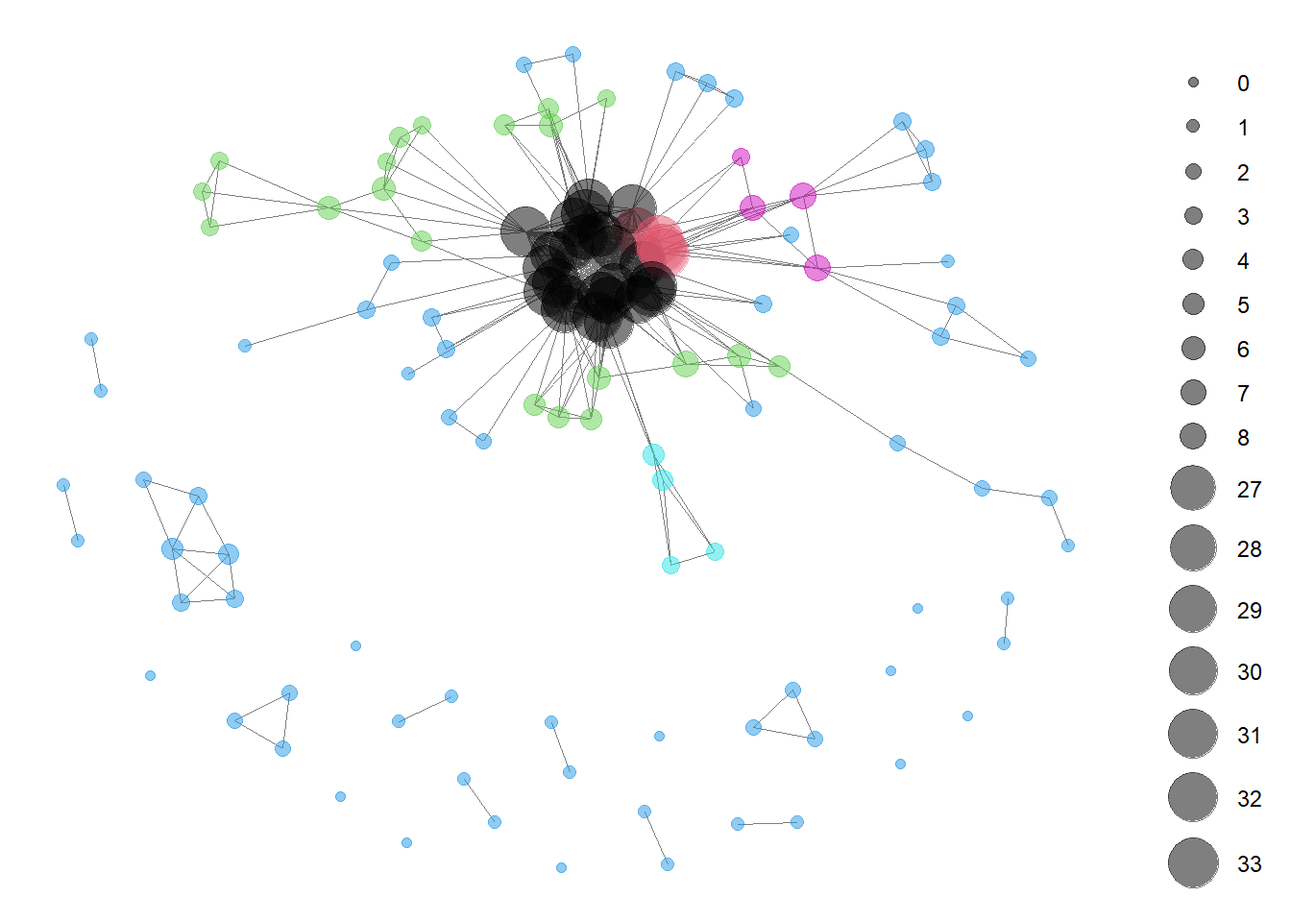
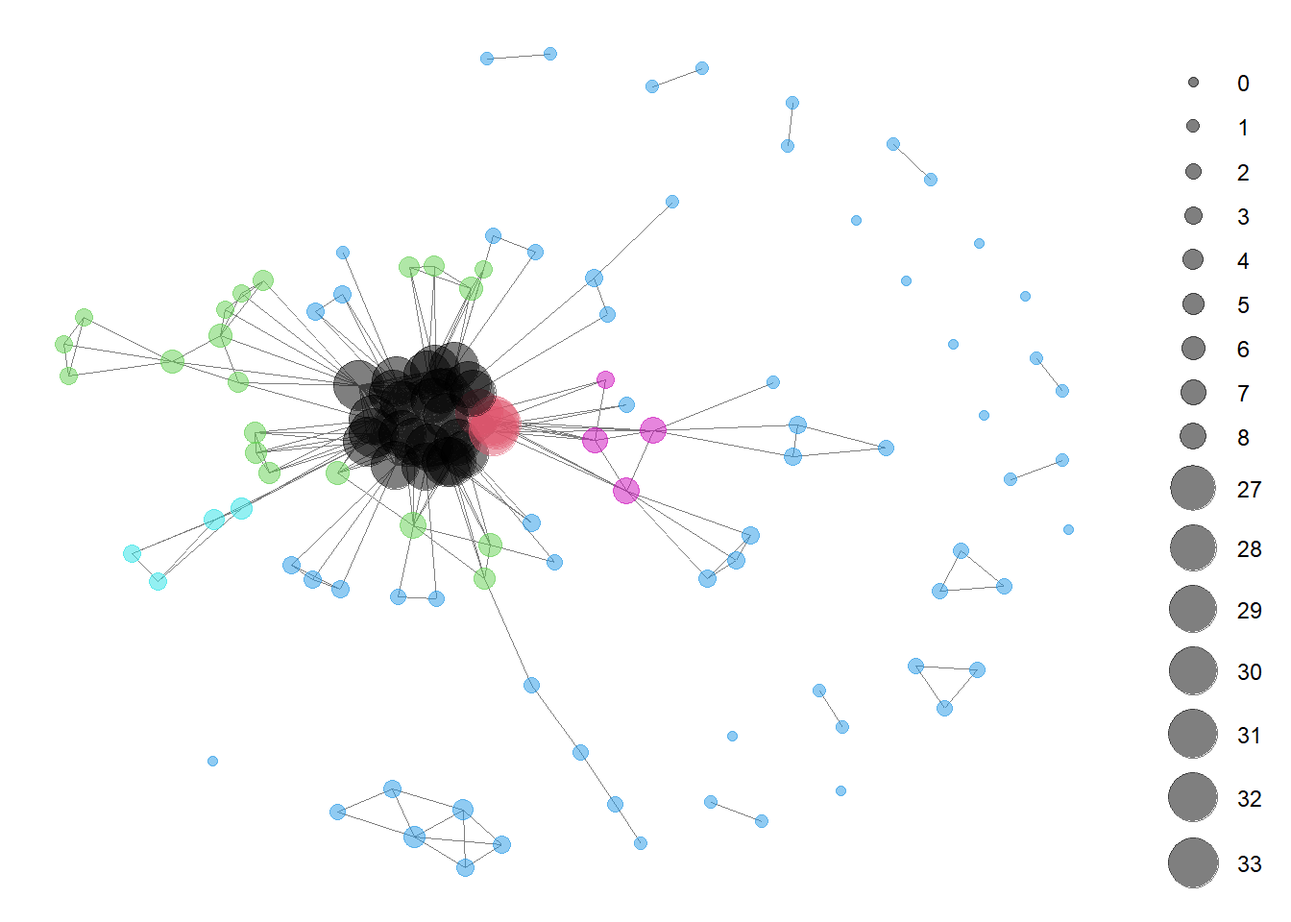
post 5

diff --git a/docs/posts/Post_Five/post_5.html b/docs/posts/Post_Five/post_5.html
@@ -7,7 +7,7 @@
 <meta name="viewport" content="width=device-width, initial-scale=1.0, user-scalable=yes">
 
 <meta name="author" content="Sue-Ellen Duffy">
-<meta name="dcterms.date" content="2024-04-25">
+<meta name="dcterms.date" content="2024-04-26">
 
 <title>Social_Networks_Blog_Space - Network Block Modeling - Geographical Comparisson</title>
 <style>
@@ -164,7 +164,7 @@ pre > code.sourceCode > span > a:first-child::before { text-decoration: underlin
       <div>
       <div class="quarto-title-meta-heading">Published</div>
       <div class="quarto-title-meta-contents">
-        <p class="date">April 25, 2024</p>
+        <p class="date">April 26, 2024</p>
       </div>
     </div>
     
@@ -317,21 +317,188 @@ pre > code.sourceCode > span > a:first-child::before { text-decoration: underlin
 <div class="cell">
 <div class="sourceCode cell-code" id="cb18"><pre class="sourceCode r code-with-copy"><code class="sourceCode r"><span id="cb18-1"><a href="#cb18-1" aria-hidden="true" tabindex="-1"></a><span class="co">#assign block membership to vertex attribute</span></span>
 <span id="cb18-2"><a href="#cb18-2" aria-hidden="true" tabindex="-1"></a>provider.stat<span class="sc">%v%</span><span class="st">"role"</span><span class="ot">&lt;-</span>prov_blk_mod<span class="sc">$</span>block.membership[<span class="fu">match</span>(provider.stat<span class="sc">%v%</span><span class="st">"vertex.names"</span>,prov_blk_mod<span class="sc">$</span>plabels)]</span>
-<span id="cb18-3"><a href="#cb18-3" aria-hidden="true" tabindex="-1"></a><span class="co">#plot network using "role" to color nodes</span></span>
-<span id="cb18-4"><a href="#cb18-4" aria-hidden="true" tabindex="-1"></a>GGally<span class="sc">::</span><span class="fu">ggnet2</span>(provider.stat,</span>
-<span id="cb18-5"><a href="#cb18-5" aria-hidden="true" tabindex="-1"></a>               <span class="at">node.color=</span><span class="st">"role"</span>, </span>
-<span id="cb18-6"><a href="#cb18-6" aria-hidden="true" tabindex="-1"></a>               <span class="at">node.size=</span>sna<span class="sc">::</span><span class="fu">degree</span>(provider.stat, <span class="at">gmode=</span><span class="st">"graph"</span>),</span>
-<span id="cb18-7"><a href="#cb18-7" aria-hidden="true" tabindex="-1"></a>               <span class="at">node.alpha =</span> .<span class="dv">5</span>)  <span class="sc">+</span> <span class="fu">ggtitle</span>(<span class="st">"Provider 6 Block Model Network"</span>)</span></code><button title="Copy to Clipboard" class="code-copy-button"><i class="bi"></i></button></pre></div>
+<span id="cb18-3"><a href="#cb18-3" aria-hidden="true" tabindex="-1"></a></span>
+<span id="cb18-4"><a href="#cb18-4" aria-hidden="true" tabindex="-1"></a><span class="co">#plot network using "role" to color nodes</span></span>
+<span id="cb18-5"><a href="#cb18-5" aria-hidden="true" tabindex="-1"></a>GGally<span class="sc">::</span><span class="fu">ggnet2</span>(provider.stat,</span>
+<span id="cb18-6"><a href="#cb18-6" aria-hidden="true" tabindex="-1"></a>               <span class="at">node.color=</span><span class="st">"role"</span>, </span>
+<span id="cb18-7"><a href="#cb18-7" aria-hidden="true" tabindex="-1"></a>               <span class="at">node.size=</span>sna<span class="sc">::</span><span class="fu">degree</span>(provider.stat, <span class="at">gmode=</span><span class="st">"graph"</span>),</span>
+<span id="cb18-8"><a href="#cb18-8" aria-hidden="true" tabindex="-1"></a>               <span class="at">node.alpha =</span> .<span class="dv">5</span>) <span class="sc">+</span> <span class="fu">ggtitle</span>(<span class="st">"Provider 6 Block Model Network"</span>)</span></code><button title="Copy to Clipboard" class="code-copy-button"><i class="bi"></i></button></pre></div>
 <div class="cell-output-display">
 <p><img src="post_5_files/figure-html/unnamed-chunk-17-1.png" class="img-fluid" width="672"></p>
 </div>
 </div>
+</section>
+<section id="create-new-attribute-lists" class="level2">
+<h2 class="anchored" data-anchor-id="create-new-attribute-lists">Create New Attribute Lists</h2>
 <div class="cell">
 <div class="sourceCode cell-code" id="cb19"><pre class="sourceCode r code-with-copy"><code class="sourceCode r"><span id="cb19-1"><a href="#cb19-1" aria-hidden="true" tabindex="-1"></a>pat_attr<span class="sc">$</span>block <span class="ot">&lt;-</span> pat_blk_mod<span class="sc">$</span>block.membership</span>
 <span id="cb19-2"><a href="#cb19-2" aria-hidden="true" tabindex="-1"></a>pro_attr<span class="sc">$</span>block <span class="ot">&lt;-</span> prov_blk_mod<span class="sc">$</span>block.membership</span>
 <span id="cb19-3"><a href="#cb19-3" aria-hidden="true" tabindex="-1"></a>both_attr <span class="ot">&lt;-</span> <span class="fu">bind_rows</span>(pat_attr, pro_attr)</span>
-<span id="cb19-4"><a href="#cb19-4" aria-hidden="true" tabindex="-1"></a>attribute_list <span class="ot">&lt;-</span> <span class="fu">do.call</span>(list, both_attr)</span></code><button title="Copy to Clipboard" class="code-copy-button"><i class="bi"></i></button></pre></div>
+<span id="cb19-4"><a href="#cb19-4" aria-hidden="true" tabindex="-1"></a></span>
+<span id="cb19-5"><a href="#cb19-5" aria-hidden="true" tabindex="-1"></a>pat_attr_list <span class="ot">&lt;-</span> <span class="fu">do.call</span>(list, pat_attr)</span>
+<span id="cb19-6"><a href="#cb19-6" aria-hidden="true" tabindex="-1"></a>pro_attr_list <span class="ot">&lt;-</span> <span class="fu">do.call</span>(list, pro_attr)</span>
+<span id="cb19-7"><a href="#cb19-7" aria-hidden="true" tabindex="-1"></a>attribute_list <span class="ot">&lt;-</span> <span class="fu">do.call</span>(list, both_attr)</span></code><button title="Copy to Clipboard" class="code-copy-button"><i class="bi"></i></button></pre></div>
 </div>
+<div class="cell">
+<div class="sourceCode cell-code" id="cb20"><pre class="sourceCode r code-with-copy"><code class="sourceCode r"><span id="cb20-1"><a href="#cb20-1" aria-hidden="true" tabindex="-1"></a>provider.st <span class="ot">&lt;-</span> <span class="fu">network</span>(provider_matrix,</span>
+<span id="cb20-2"><a href="#cb20-2" aria-hidden="true" tabindex="-1"></a>                       <span class="at">directed =</span> <span class="cn">FALSE</span>,</span>
+<span id="cb20-3"><a href="#cb20-3" aria-hidden="true" tabindex="-1"></a>                       <span class="at">matrix.type =</span> <span class="st">"adjacency"</span>,</span>
+<span id="cb20-4"><a href="#cb20-4" aria-hidden="true" tabindex="-1"></a>                       <span class="at">vertex.attr =</span> pro_attr_list)</span>
+<span id="cb20-5"><a href="#cb20-5" aria-hidden="true" tabindex="-1"></a>provider.st</span></code><button title="Copy to Clipboard" class="code-copy-button"><i class="bi"></i></button></pre></div>
+<div class="cell-output cell-output-stdout">
+<pre><code> Network attributes:
+  vertices = 253 
+  directed = FALSE 
+  hyper = FALSE 
+  loops = FALSE 
+  multiple = FALSE 
+  bipartite = FALSE 
+  total edges= 554 
+    missing edges= 0 
+    non-missing edges= 554 
+
+ Vertex attribute names: 
+    block CITY GENDER NAME type vertex.names 
+
+No edge attributes</code></pre>
+</div>
+</div>
+<div class="cell">
+<div class="sourceCode cell-code" id="cb22"><pre class="sourceCode r code-with-copy"><code class="sourceCode r"><span id="cb22-1"><a href="#cb22-1" aria-hidden="true" tabindex="-1"></a>provider_graph <span class="ot">&lt;-</span> <span class="fu">graph_from_biadjacency_matrix</span>(provider.st)</span></code><button title="Copy to Clipboard" class="code-copy-button"><i class="bi"></i></button></pre></div>
+</div>
+<div class="cell">
+<div class="sourceCode cell-code" id="cb23"><pre class="sourceCode r code-with-copy"><code class="sourceCode r"><span id="cb23-1"><a href="#cb23-1" aria-hidden="true" tabindex="-1"></a><span class="co">#assign colors</span></span>
+<span id="cb23-2"><a href="#cb23-2" aria-hidden="true" tabindex="-1"></a><span class="co">#colors &lt;-  c("yellow", "blue", "green", "orange", "red", "purple")</span></span>
+<span id="cb23-3"><a href="#cb23-3" aria-hidden="true" tabindex="-1"></a><span class="co">#vertex_colors &lt;- colors[pro_attr_list$block]</span></span>
+<span id="cb23-4"><a href="#cb23-4" aria-hidden="true" tabindex="-1"></a>vertex_colors <span class="ot">&lt;-</span> <span class="fu">ifelse</span>(pro_attr_list<span class="sc">$</span>CITY <span class="sc">==</span> <span class="st">"BOSTON"</span>, <span class="st">"red"</span>, <span class="st">"white"</span>)</span>
+<span id="cb23-5"><a href="#cb23-5" aria-hidden="true" tabindex="-1"></a></span>
+<span id="cb23-6"><a href="#cb23-6" aria-hidden="true" tabindex="-1"></a>vertex_shape <span class="ot">&lt;-</span> <span class="fu">ifelse</span>(pro_attr_list<span class="sc">$</span>CITY <span class="sc">==</span> <span class="st">"BOSTON"</span>, <span class="st">"circle"</span>, <span class="st">"square"</span>)</span></code><button title="Copy to Clipboard" class="code-copy-button"><i class="bi"></i></button></pre></div>
+</div>
+<div class="cell">
+<div class="sourceCode cell-code" id="cb24"><pre class="sourceCode r code-with-copy"><code class="sourceCode r"><span id="cb24-1"><a href="#cb24-1" aria-hidden="true" tabindex="-1"></a><span class="fu">plot</span>(provider_graph, </span>
+<span id="cb24-2"><a href="#cb24-2" aria-hidden="true" tabindex="-1"></a>     <span class="at">layout =</span> layout.fruchterman.reingold, </span>
+<span id="cb24-3"><a href="#cb24-3" aria-hidden="true" tabindex="-1"></a>     <span class="at">vertex.label.dist =</span> <span class="dv">2</span>, </span>
+<span id="cb24-4"><a href="#cb24-4" aria-hidden="true" tabindex="-1"></a>     <span class="at">vertex.size =</span> <span class="dv">4</span>, </span>
+<span id="cb24-5"><a href="#cb24-5" aria-hidden="true" tabindex="-1"></a>     <span class="at">vertex.color =</span> vertex_colors,</span>
+<span id="cb24-6"><a href="#cb24-6" aria-hidden="true" tabindex="-1"></a>     <span class="at">vertex.shape =</span> vertex_shape,</span>
+<span id="cb24-7"><a href="#cb24-7" aria-hidden="true" tabindex="-1"></a>     <span class="at">edge.label =</span> <span class="cn">NA</span>,</span>
+<span id="cb24-8"><a href="#cb24-8" aria-hidden="true" tabindex="-1"></a>     <span class="at">vertex.label =</span> <span class="cn">NA</span>,</span>
+<span id="cb24-9"><a href="#cb24-9" aria-hidden="true" tabindex="-1"></a>     <span class="at">vertex.label.cex =</span> <span class="fl">0.2</span>, </span>
+<span id="cb24-10"><a href="#cb24-10" aria-hidden="true" tabindex="-1"></a>     <span class="at">main =</span> <span class="st">"SN Graph"</span>)</span></code><button title="Copy to Clipboard" class="code-copy-button"><i class="bi"></i></button></pre></div>
+<div class="cell-output-display">
+<p><img src="post_5_files/figure-html/unnamed-chunk-22-1.png" class="img-fluid" width="672"></p>
+</div>
+</div>
+<p>What other cities are on the provider list. Boston is not being properly represented, I have a feeling</p>
+<div class="cell">
+<div class="sourceCode cell-code" id="cb25"><pre class="sourceCode r code-with-copy"><code class="sourceCode r"><span id="cb25-1"><a href="#cb25-1" aria-hidden="true" tabindex="-1"></a><span class="fu">table</span>(pro_attr<span class="sc">$</span>CITY)</span></code><button title="Copy to Clipboard" class="code-copy-button"><i class="bi"></i></button></pre></div>
+<div class="cell-output cell-output-stdout">
+<pre><code>
+         ALLSTON          AMHERST          ANDOVER        ARLINGTON 
+               1                2                1                3 
+          AUBURN       AUBURNDALE       BELLINGHAM          BEVERLY 
+               1                2                1                2 
+          Boston           BOSTON      BRIDGEWATER         BRIGHTON 
+               1                5                2                2 
+        BROCKTON        BROOKLINE        CAMBRIDGE      CHARLESTOWN 
+               1                2                4                1 
+        CHARLTON          CHATHAM       CHELMSFORD          CHELSEA 
+               1                1                1                2 
+        CHICOPEE        DARTMOUTH           DEDHAM       DORCHESTER 
+               2                1                5                2 
+      E FALMOUTH        Fairhaven        FAIRHAVEN       FALL RIVER 
+               1                1                3                4 
+        FALMOUTH        Fitchburg       FOXBOROUGH       FRAMINGHAM 
+               3                1                1                2 
+      GEORGETOWN           GROTON          HANOVER     HARWICH PORT 
+               1                1                2                1 
+       HAVERHILL          HINGHAM        HOLLISTON          HOLYOKE 
+               3                2                1                2 
+       HOPKINTON          HYANNIS        HYDE PARK    Jamaica Plain 
+               2                2                1                1 
+   JAMAICA PLAIN         LAWRENCE       LEOMINSTER        LEXINGTON 
+               2                3                2                3 
+          LOWELL           LUDLOW             Lynn             LYNN 
+               3                1                1                1 
+          MALDEN      MARLBOROUGH         MATTAPAN          MEDFORD 
+               1                5                2                2 
+         MELROSE          METHUEN       MIDDLEBORO          MILFORD 
+               2                2                1                3 
+          MILTON           NATICK          NEEDHAM      NEW BEDFORD 
+               3                3                2                3 
+     NEWBURYPORT           NEWTON      NORTH ADAMS    NORTH ANDOVER 
+               1                5                1                1 
+ NORTH DARTMOUTH      NORTHAMPTON     NORTHBOROUGH          NORWELL 
+               1                1                1                3 
+         NORWOOD       OAK BLUFFS          PEABODY         PEMBROKE 
+               6                1                2                1 
+      PITTSFIELD         PLYMOUTH           QUINCY         RANDOLPH 
+               3                6                3                2 
+         RAYNHAM          READING         ROCHDALE       ROSLINDALE 
+               2                1                1                4 
+          ROWLEY          ROXBURY       S YARMOUTH            SALEM 
+               1                1                1                2 
+        SCITUATE           SHARON       SHREWSBURY       SOMERVILLE 
+               3                1                1                3 
+  SOUTH YARMOUTH     SOUTHBOROUGH      SPRINGFIELD         STONEHAM 
+               2                1                2                2 
+       STOUGHTON        TEWKSBURY            UPTON         UXBRIDGE 
+               2                2                1                1 
+         WALPOLE          WALTHAM          WAREHAM        WELLESLEY 
+               2                7                3                1 
+WEST BRIDGEWATER     West Roxbury     WEST ROXBURY      WESTBOROUGH 
+               3                1                1                4 
+        WESTFORD         WESTWOOD         WEYMOUTH        WILBRAHAM 
+               3                1                2                1 
+    WILLIAMSTOWN         WINTHROP           WOBURN        Worcester 
+               1                1                6                1 
+       WORCESTER 
+              17 </code></pre>
+</div>
+</div>
+<p>Should have cleaned that earlier, but here we go!</p>
+<div class="cell">
+<div class="sourceCode cell-code" id="cb27"><pre class="sourceCode r code-with-copy"><code class="sourceCode r"><span id="cb27-1"><a href="#cb27-1" aria-hidden="true" tabindex="-1"></a>Boston_Neighborhoods <span class="ot">&lt;-</span> <span class="fu">c</span>(</span>
+<span id="cb27-2"><a href="#cb27-2" aria-hidden="true" tabindex="-1"></a>  <span class="st">"ALLSTON"</span>,</span>
+<span id="cb27-3"><a href="#cb27-3" aria-hidden="true" tabindex="-1"></a>  <span class="st">"BRIGHTON"</span>,</span>
+<span id="cb27-4"><a href="#cb27-4" aria-hidden="true" tabindex="-1"></a>  <span class="st">"Boston"</span>,</span>
+<span id="cb27-5"><a href="#cb27-5" aria-hidden="true" tabindex="-1"></a>  <span class="st">"BOSTON"</span>,</span>
+<span id="cb27-6"><a href="#cb27-6" aria-hidden="true" tabindex="-1"></a>  <span class="st">"CHARLESTOWN"</span>,</span>
+<span id="cb27-7"><a href="#cb27-7" aria-hidden="true" tabindex="-1"></a>  <span class="st">"DORCHESTER"</span>,</span>
+<span id="cb27-8"><a href="#cb27-8" aria-hidden="true" tabindex="-1"></a>  <span class="st">"HYDE PARK"</span>,</span>
+<span id="cb27-9"><a href="#cb27-9" aria-hidden="true" tabindex="-1"></a>  <span class="st">"Jamaica Plain"</span>,</span>
+<span id="cb27-10"><a href="#cb27-10" aria-hidden="true" tabindex="-1"></a>  <span class="st">"JAMAICA PLAIN"</span>,</span>
+<span id="cb27-11"><a href="#cb27-11" aria-hidden="true" tabindex="-1"></a>  <span class="st">"MATTAPAN"</span>,</span>
+<span id="cb27-12"><a href="#cb27-12" aria-hidden="true" tabindex="-1"></a>  <span class="st">"ROSLINDALE"</span>,</span>
+<span id="cb27-13"><a href="#cb27-13" aria-hidden="true" tabindex="-1"></a>  <span class="st">"ROXBURY"</span>,</span>
+<span id="cb27-14"><a href="#cb27-14" aria-hidden="true" tabindex="-1"></a>  <span class="st">"West Roxbury"</span>,</span>
+<span id="cb27-15"><a href="#cb27-15" aria-hidden="true" tabindex="-1"></a>  <span class="st">"WEST ROXBURY"</span></span>
+<span id="cb27-16"><a href="#cb27-16" aria-hidden="true" tabindex="-1"></a>)</span></code><button title="Copy to Clipboard" class="code-copy-button"><i class="bi"></i></button></pre></div>
+</div>
+<div class="cell">
+<div class="sourceCode cell-code" id="cb28"><pre class="sourceCode r code-with-copy"><code class="sourceCode r"><span id="cb28-1"><a href="#cb28-1" aria-hidden="true" tabindex="-1"></a><span class="co">#assign colors</span></span>
+<span id="cb28-2"><a href="#cb28-2" aria-hidden="true" tabindex="-1"></a><span class="co">#colors &lt;-  c("yellow", "blue", "green", "orange", "red", "purple")</span></span>
+<span id="cb28-3"><a href="#cb28-3" aria-hidden="true" tabindex="-1"></a><span class="co">#vertex_colors &lt;- colors[pro_attr_list$block]</span></span>
+<span id="cb28-4"><a href="#cb28-4" aria-hidden="true" tabindex="-1"></a>vertex_colors <span class="ot">&lt;-</span> <span class="fu">ifelse</span>(pro_attr_list<span class="sc">$</span>CITY <span class="sc">%in%</span> Boston_Neighborhoods, <span class="st">"red"</span>, <span class="st">"white"</span>)</span>
+<span id="cb28-5"><a href="#cb28-5" aria-hidden="true" tabindex="-1"></a>vertex_shape <span class="ot">&lt;-</span> <span class="fu">ifelse</span>(pro_attr_list<span class="sc">$</span>block <span class="sc">==</span> <span class="st">"1"</span>, <span class="st">"circle"</span>, <span class="st">"square"</span>)</span>
+<span id="cb28-6"><a href="#cb28-6" aria-hidden="true" tabindex="-1"></a><span class="co">#vertex_shape &lt;- ifelse(pro_attr_list$CITY == "BOSTON", "circle", "square")</span></span></code><button title="Copy to Clipboard" class="code-copy-button"><i class="bi"></i></button></pre></div>
+</div>
+<div class="cell">
+<div class="sourceCode cell-code" id="cb29"><pre class="sourceCode r code-with-copy"><code class="sourceCode r"><span id="cb29-1"><a href="#cb29-1" aria-hidden="true" tabindex="-1"></a><span class="fu">plot</span>(provider_graph, </span>
+<span id="cb29-2"><a href="#cb29-2" aria-hidden="true" tabindex="-1"></a>     <span class="at">layout =</span> layout.fruchterman.reingold, </span>
+<span id="cb29-3"><a href="#cb29-3" aria-hidden="true" tabindex="-1"></a>     <span class="at">vertex.label.dist =</span> <span class="dv">2</span>, </span>
+<span id="cb29-4"><a href="#cb29-4" aria-hidden="true" tabindex="-1"></a>     <span class="at">vertex.size =</span> <span class="dv">4</span>, </span>
+<span id="cb29-5"><a href="#cb29-5" aria-hidden="true" tabindex="-1"></a>     <span class="at">vertex.color =</span> vertex_colors,</span>
+<span id="cb29-6"><a href="#cb29-6" aria-hidden="true" tabindex="-1"></a>     <span class="at">vertex.shape =</span> vertex_shape,</span>
+<span id="cb29-7"><a href="#cb29-7" aria-hidden="true" tabindex="-1"></a>     <span class="at">edge.label =</span> <span class="cn">NA</span>,</span>
+<span id="cb29-8"><a href="#cb29-8" aria-hidden="true" tabindex="-1"></a>     <span class="at">vertex.label =</span> <span class="cn">NA</span>,</span>
+<span id="cb29-9"><a href="#cb29-9" aria-hidden="true" tabindex="-1"></a>     <span class="at">vertex.label.cex =</span> <span class="fl">0.2</span>, </span>
+<span id="cb29-10"><a href="#cb29-10" aria-hidden="true" tabindex="-1"></a>     <span class="at">main =</span> <span class="st">"SN Graph"</span>)</span></code><button title="Copy to Clipboard" class="code-copy-button"><i class="bi"></i></button></pre></div>
+<div class="cell-output-display">
+<p><img src="post_5_files/figure-html/unnamed-chunk-26-1.png" class="img-fluid" width="672"></p>
+</div>
+</div>
+<p>So… it’s not Boston related.</p>
 
 
 </section>

diff --git a/docs/index.html b/docs/index.html
@@ -157,7 +157,7 @@ ul.task-list li input[type="checkbox"] {
 <!-- margin-sidebar -->
     <div id="quarto-margin-sidebar" class="sidebar margin-sidebar">
         
-    <h5 class="quarto-listing-category-title">Categories</h5><div class="quarto-listing-category category-default"><div class="category" data-category="">All <span class="quarto-category-count">(6)</span></div><div class="category" data-category="analysis">analysis <span class="quarto-category-count">(6)</span></div><div class="category" data-category="block_model">block_model <span class="quarto-category-count">(4)</span></div><div class="category" data-category="code">code <span class="quarto-category-count">(6)</span></div></div></div>
+    <h5 class="quarto-listing-category-title">Categories</h5><div class="quarto-listing-category category-default"><div class="category" data-category="">All <span class="quarto-category-count">(5)</span></div><div class="category" data-category="analysis">analysis <span class="quarto-category-count">(5)</span></div><div class="category" data-category="block_model">block_model <span class="quarto-category-count">(3)</span></div><div class="category" data-category="code">code <span class="quarto-category-count">(5)</span></div></div></div>
 <!-- main -->
 <main class="content quarto-banner-title-block column-page-left" id="quarto-document-content">
 
@@ -170,7 +170,7 @@ ul.task-list li input[type="checkbox"] {
 
 <div class="quarto-listing quarto-listing-container-default" id="listing-listing">
 <div class="list quarto-listing-default">
-<div class="quarto-post image-right" data-index="0" data-categories="code,analysis,block_model" data-listing-date-sort="1714017600000" data-listing-file-modified-sort="1714167163275" data-listing-date-modified-sort="NaN" data-listing-reading-time-sort="3">
+<div class="quarto-post image-right" data-index="0" data-categories="code,analysis,block_model" data-listing-date-sort="1714104000000" data-listing-file-modified-sort="1714171278987" data-listing-date-modified-sort="NaN" data-listing-reading-time-sort="5">
 <div class="thumbnail">
 <p><a href="./posts/Post_Five/post_5.html"> <p class="card-img-top"><img src="posts\Post_Five\post_5_files\figure-html\unnamed-chunk-9-1.png"  class="thumbnail-image card-img"/></p> </a></p>
 </div>
@@ -203,7 +203,7 @@ This post will explore the Synthetic Mass network data in more detail.
 <div class="metadata">
 <a href="./posts/Post_Five/post_5.html">
 <div class="listing-date">
-Apr 25, 2024
+Apr 26, 2024
 </div>
 <div class="listing-author">
 Sue-Ellen Duffy
@@ -293,48 +293,7 @@ Sue-Ellen Duffy
 </a>
 </div>
 </div>
-<div class="quarto-post image-right" data-index="3" data-categories="code,analysis,block_model" data-listing-date-sort="1714017600000" data-listing-file-modified-sort="1714164193759" data-listing-date-modified-sort="NaN" data-listing-reading-time-sort="3">
-<div class="thumbnail">
-<p><a href="./posts/Post_Three/post_3adjustment.html"> <p class="card-img-top"><img src="posts\Post_Three\post_3adjustment_files\figure-html\unnamed-chunk-7-1.png"  class="thumbnail-image card-img"/></p> </a></p>
-</div>
-<div class="body">
-<a href="./posts/Post_Three/post_3adjustment.html">
-<h3 class="no-anchor listing-title">
-Network Block Modeling - Patients
-</h3>
-<div class="listing-subtitle">
-
-</div>
-</a>
-<div class="listing-categories">
-<div class="listing-category" onclick="window.quartoListingCategory('code'); return false;">
-code
-</div>
-<div class="listing-category" onclick="window.quartoListingCategory('analysis'); return false;">
-analysis
-</div>
-<div class="listing-category" onclick="window.quartoListingCategory('block_model'); return false;">
-block_model
-</div>
-</div>
-<a href="./posts/Post_Three/post_3adjustment.html">
-<div class="listing-description">
-This post will explore the Synthetic Mass network data in more detail.
-</div>
-</a>
-</div>
-<div class="metadata">
-<a href="./posts/Post_Three/post_3adjustment.html">
-<div class="listing-date">
-Apr 25, 2024
-</div>
-<div class="listing-author">
-Sue-Ellen Duffy
-</div>
-</a>
-</div>
-</div>
-<div class="quarto-post image-right" data-index="4" data-categories="code,analysis" data-listing-date-sort="1713672000000" data-listing-file-modified-sort="1714164369916" data-listing-date-modified-sort="NaN" data-listing-reading-time-sort="9">
+<div class="quarto-post image-right" data-index="3" data-categories="code,analysis" data-listing-date-sort="1713672000000" data-listing-file-modified-sort="1714164369916" data-listing-date-modified-sort="NaN" data-listing-reading-time-sort="9">
 <div class="thumbnail">
 <p><a href="./posts/Post_Two/post_2.html"> <p class="card-img-top"><img src="posts\Post_Two\post_2_files\figure-html\unnamed-chunk-5-1.png"  class="thumbnail-image card-img"/></p> </a></p>
 </div>
@@ -372,7 +331,7 @@ Sue-Ellen Duffy
 </a>
 </div>
 </div>
-<div class="quarto-post image-right" data-index="5" data-categories="code,analysis" data-listing-date-sort="1713585600000" data-listing-file-modified-sort="1714164830246" data-listing-date-modified-sort="NaN" data-listing-reading-time-sort="11">
+<div class="quarto-post image-right" data-index="4" data-categories="code,analysis" data-listing-date-sort="1713585600000" data-listing-file-modified-sort="1714164830246" data-listing-date-modified-sort="NaN" data-listing-reading-time-sort="11">
 <div class="thumbnail">
 <p><a href="./posts/Post_One/post_1.html"> <p class="card-img-top"><img src="posts\Post_One\SyntheticMassLogo.png"  class="thumbnail-image card-img"/></p> </a></p>
 </div>
